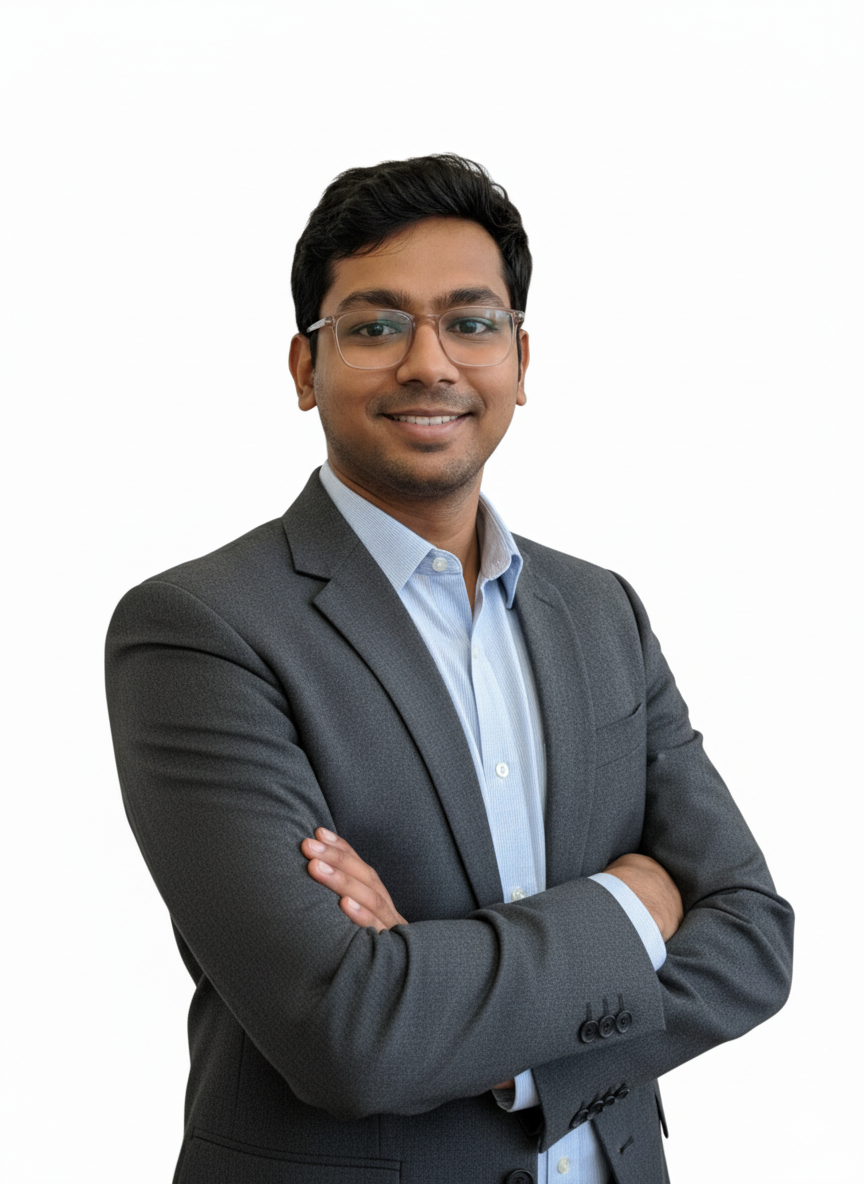
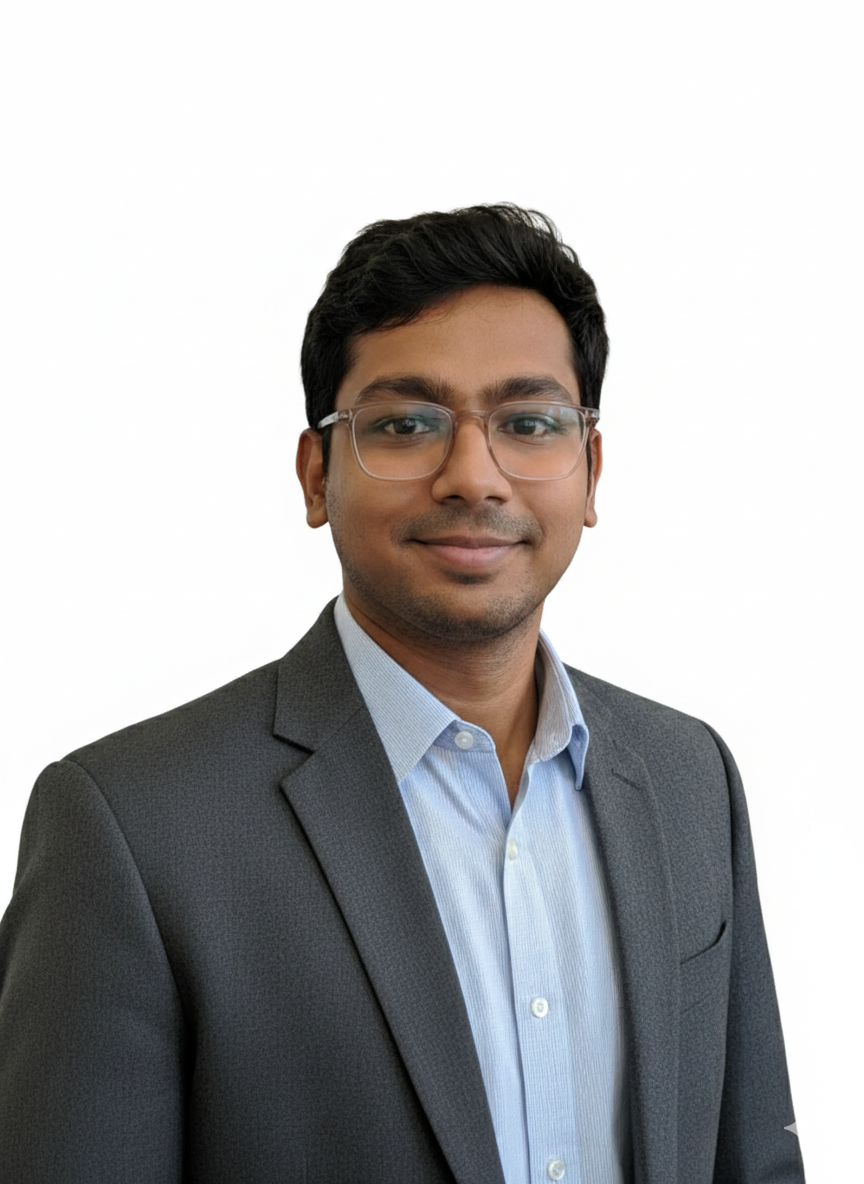
Complete Our Teaching Team section with detailed instructor profiles
- Add comprehensive team section with Gleb Bogachev and Manthan Chittora
- Include detailed structured bios with What I Teach, Approach, and Achievements
- Add instructor photos with proper sizing and positioning
- Full bilingual support (English/Vietnamese) for all team content
- Updated JavaScript to handle HTML content in bio translations
- Both instructors share "Successfully trained 100+ students" achievement
- Professional credentials and teaching experience highlighted
- Consistent styling matching existing design system

🤖 Generated with [Claude Code](https://claude.ai/code)

diff --git a/index.html b/index.html
@@ -399,16 +399,73 @@
         <p data-i18n="team.copy" class="mt-3 text-base text-slate-600">Meet our experienced instructors who guide students through their tech learning journey.</p>
         <div class="mt-10 grid gap-8 md:grid-cols-2">
           <div class="rounded-2xl border border-slate-200 bg-white/95 p-6 text-center">
-            <img src="images/gleb.jpg" alt="Gleb" class="mx-auto mb-4 h-32 w-32 rounded-full object-cover" />
-            <h3 data-i18n="team.glebName" class="text-lg font-semibold text-ink">Gleb</h3>
+            <img src="images/gleb.jpg" alt="Gleb" class="mx-auto mb-4 w-full h-96 rounded-lg object-cover object-center" />
+            <h3 data-i18n="team.glebName" class="text-lg font-semibold text-ink">Gleb Bogachev</h3>
             <p data-i18n="team.glebTitle" class="mt-1 text-sm font-medium text-sky">Lead Instructor</p>
-            <p data-i18n="team.glebBio" class="mt-3 text-sm text-slate-600">3+ years teaching experience in generative AI, game development, Scratch programming, and 3D design. Passionate about making complex tech concepts accessible to young learners.</p>
+            <div data-i18n="team.glebBio" class="mt-3 text-sm text-slate-600 text-left space-y-4">
+              <p>With 3.5+ years of teaching experience, I specialize in project-based learning that helps students learn by building real things — not just by following theory.</p>
+              
+              <div>
+                <h4 class="font-semibold text-ink mb-2">What I Teach</h4>
+                <ul class="list-disc list-inside space-y-1 ml-4">
+                  <li>Generative AI</li>
+                  <li>Game Development</li>
+                  <li>3D Design with Blender</li>
+                  <li>Scratch Programming</li>
+                  <li>Python Programming</li>
+                </ul>
+              </div>
+              
+              <div>
+                <h4 class="font-semibold text-ink mb-2">My Approach</h4>
+                <p>I believe the best way to learn is by starting with a project in mind and discovering new skills along the way. My classes focus on creativity, curiosity, and hands-on exploration.</p>
+              </div>
+              
+              <div>
+                <h4 class="font-semibold text-ink mb-2">Projects & Achievements</h4>
+                <ul class="list-disc list-inside space-y-1 ml-4">
+                  <li>Created three apps and several interactive projects</li>
+                  <li>Developed a publicly available web app as part of my personal portfolio</li>
+                  <li>Successfully trained 100+ students in coding and technology</li>
+                </ul>
+              </div>
+            </div>
           </div>
           <div class="rounded-2xl border border-slate-200 bg-white/95 p-6 text-center">
-            <img src="images/Manthan.jpg" alt="Manthan" class="mx-auto mb-4 h-32 w-32 rounded-full object-cover" />
-            <h3 data-i18n="team.manthanName" class="text-lg font-semibold text-ink">Manthan</h3>
-            <p data-i18n="team.manthanTitle" class="mt-1 text-sm font-medium text-sky">Senior Instructor</p>
-            <p data-i18n="team.manthanBio" class="mt-3 text-sm text-slate-600">3+ years teaching experience in generative AI, game development, Scratch programming, and 3D design. Passionate about making complex tech concepts accessible to young learners.</p>
+            <img src="images/Manthan.jpg" alt="Manthan" class="mx-auto mb-4 w-full h-96 rounded-lg object-cover object-center" />
+            <h3 data-i18n="team.manthanName" class="text-lg font-semibold text-ink">Manthan Chittora</h3>
+            <p data-i18n="team.manthanTitle" class="mt-1 text-sm font-medium text-sky">Lead Instructor</p>
+            <div data-i18n="team.manthanBio" class="mt-3 text-sm text-slate-600 text-left space-y-4">
+              <p>With 4+ years of teaching experience, I specialize in project-based learning that turns complex tech concepts into fun, hands-on lessons.</p>
+              
+              <div>
+                <h4 class="font-semibold text-ink mb-2">What I Teach</h4>
+                <ul class="list-disc list-inside space-y-1 ml-4">
+                  <li>Generative AI</li>
+                  <li>Python & Machine Learning</li>
+                  <li>Game Development (GDevelop 5, Roblox)</li>
+                  <li>Scratch Programming</li>
+                  <li>3D Design with Blender</li>
+                  <li>App Development</li>
+                </ul>
+              </div>
+              
+              <div>
+                <h4 class="font-semibold text-ink mb-2">My Approach</h4>
+                <p>I believe learning should feel like creating something exciting, not memorizing rules. My goal is to help students think creatively, solve problems, and develop confidence through coding.</p>
+              </div>
+              
+              <div>
+                <h4 class="font-semibold text-ink mb-2">Projects & Achievements</h4>
+                <ul class="list-disc list-inside space-y-1 ml-4">
+                  <li>Built multiple apps and AI/game projects</li>
+                  <li>Developed public Generative AI projects</li>
+                  <li>Successfully trained 100+ students in coding and technology</li>
+                  <li>Former Teacher at Apollo Education, Vietnam</li>
+                  <li>B.E. in Computer Science & Engineering, TEFL Certified</li>
+                </ul>
+              </div>
+            </div>
           </div>
         </div>
       </section>
@@ -527,12 +584,12 @@
             'outcomes.item3': 'Portfolios grow and students share their work with confidence',
             'team.heading': 'Our Teaching Team',
             'team.copy': 'Meet our experienced instructors who guide students through their tech learning journey.',
-            'team.glebName': 'Gleb',
+            'team.glebName': 'Gleb Bogachev',
             'team.glebTitle': 'Lead Instructor',
-            'team.glebBio': '3+ years teaching experience in generative AI, game development, Scratch programming, and 3D design. Passionate about making complex tech concepts accessible to young learners.',
-            'team.manthanName': 'Manthan',
-            'team.manthanTitle': 'Senior Instructor',
-            'team.manthanBio': '3+ years teaching experience in generative AI, game development, Scratch programming, and 3D design. Passionate about making complex tech concepts accessible to young learners.',
+            'team.glebBio': '<p>With 3.5+ years of teaching experience, I specialize in project-based learning that helps students learn by building real things — not just by following theory.</p><div><h4 class="font-semibold text-ink mb-2">What I Teach</h4><ul class="list-disc list-inside space-y-1 ml-4"><li>Generative AI</li><li>Game Development</li><li>3D Design with Blender</li><li>Scratch Programming</li><li>Python Programming</li></ul></div><div><h4 class="font-semibold text-ink mb-2">My Approach</h4><p>I believe the best way to learn is by starting with a project in mind and discovering new skills along the way. My classes focus on creativity, curiosity, and hands-on exploration.</p></div><div><h4 class="font-semibold text-ink mb-2">Projects & Achievements</h4><ul class="list-disc list-inside space-y-1 ml-4"><li>Created three apps and several interactive projects</li><li>Developed a publicly available web app as part of my personal portfolio</li><li>Successfully trained 100+ students in coding and technology</li></ul></div>',
+            'team.manthanName': 'Manthan Chittora',
+            'team.manthanTitle': 'Lead Instructor',
+            'team.manthanBio': '<p>With 4+ years of teaching experience, I specialize in project-based learning that turns complex tech concepts into fun, hands-on lessons.</p><div><h4 class="font-semibold text-ink mb-2">What I Teach</h4><ul class="list-disc list-inside space-y-1 ml-4"><li>Generative AI</li><li>Python & Machine Learning</li><li>Game Development (GDevelop 5, Roblox)</li><li>Scratch Programming</li><li>3D Design with Blender</li><li>App Development</li></ul></div><div><h4 class="font-semibold text-ink mb-2">My Approach</h4><p>I believe learning should feel like creating something exciting, not memorizing rules. My goal is to help students think creatively, solve problems, and develop confidence through coding.</p></div><div><h4 class="font-semibold text-ink mb-2">Projects & Achievements</h4><ul class="list-disc list-inside space-y-1 ml-4"><li>Built multiple apps and AI/game projects</li><li>Developed public Generative AI projects</li><li>Successfully trained 100+ students in coding and technology</li><li>Former Teacher at Apollo Education, Vietnam</li><li>B.E. in Computer Science & Engineering, TEFL Certified</li></ul></div>',
             'contact.heading': 'Talk with our team',
             'contact.copy': 'Zalo / WhatsApp: 0931140736',
             'contact.whatsapp': 'Chat on WhatsApp',
@@ -634,12 +691,12 @@
             'outcomes.item3': 'Phát triển portfolio và tự tin chia sẻ thành quả',
             'team.heading': 'Đội Ngũ Giảng Viên',
             'team.copy': 'Gặp gỡ các giảng viên giàu kinh nghiệm dẫn dắt học viên trong hành trình học công nghệ.',
-            'team.glebName': 'Gleb',
+            'team.glebName': 'Gleb Bogachev',
             'team.glebTitle': 'Giảng Viên Chính',
-            'team.glebBio': 'Hơn 3 năm kinh nghiệm giảng dạy AI tạo sinh, phát triển game, lập trình Scratch và thiết kế 3D. Đam mê làm cho các khái niệm công nghệ phức tạp trở nên dễ tiếp cận với học viên trẻ.',
-            'team.manthanName': 'Manthan',
-            'team.manthanTitle': 'Giảng Viên Cao Cấp',
-            'team.manthanBio': 'Hơn 3 năm kinh nghiệm giảng dạy AI tạo sinh, phát triển game, lập trình Scratch và thiết kế 3D. Đam mê làm cho các khái niệm công nghệ phức tạp trở nên dễ tiếp cận với học viên trẻ.',
+            'team.glebBio': '<p>Với hơn 3.5 năm kinh nghiệm giảng dạy, tôi chuyên về học tập dựa trên dự án giúp học sinh học bằng cách xây dựng những thứ thực tế — không chỉ theo lý thuyết.</p><div><h4 class="font-semibold text-ink mb-2">Tôi Giảng Dạy</h4><ul class="list-disc list-inside space-y-1 ml-4"><li>AI Tạo Sinh</li><li>Phát Triển Game</li><li>Thiết Kế 3D với Blender</li><li>Lập Trình Scratch</li><li>Lập Trình Python</li></ul></div><div><h4 class="font-semibold text-ink mb-2">Phương Pháp Của Tôi</h4><p>Tôi tin rằng cách học tốt nhất là bắt đầu với một dự án trong đầu và khám phá các kỹ năng mới trên đường đi. Lớp học của tôi tập trung vào sáng tạo, tò mò và khám phá thực hành.</p></div><div><h4 class="font-semibold text-ink mb-2">Dự Án & Thành Tựu</h4><ul class="list-disc list-inside space-y-1 ml-4"><li>Đã tạo ra ba ứng dụng và nhiều dự án tương tác</li><li>Phát triển một ứng dụng web công khai như một phần của portfolio cá nhân</li><li>Đã đào tạo thành công hơn 100 học sinh về lập trình và công nghệ</li></ul></div>',
+            'team.manthanName': 'Manthan Chittora',
+            'team.manthanTitle': 'Giảng Viên Chính',
+            'team.manthanBio': '<p>Với hơn 4 năm kinh nghiệm giảng dạy, tôi chuyên về học tập dựa trên dự án biến các khái niệm công nghệ phức tạp thành những bài học thú vị, thực hành.</p><div><h4 class="font-semibold text-ink mb-2">Tôi Giảng Dạy</h4><ul class="list-disc list-inside space-y-1 ml-4"><li>AI Tạo Sinh</li><li>Python & Machine Learning</li><li>Phát Triển Game (GDevelop 5, Roblox)</li><li>Lập Trình Scratch</li><li>Thiết Kế 3D với Blender</li><li>Phát Triển Ứng Dụng</li></ul></div><div><h4 class="font-semibold text-ink mb-2">Phương Pháp Của Tôi</h4><p>Tôi tin rằng học tập nên cảm thấy như đang tạo ra điều gì đó thú vị, chứ không phải ghi nhớ quy tắc. Mục tiêu của tôi là giúp học sinh suy nghĩ sáng tạo, giải quyết vấn đề và phát triển sự tự tin thông qua lập trình.</p></div><div><h4 class="font-semibold text-ink mb-2">Dự Án & Thành Tựu</h4><ul class="list-disc list-inside space-y-1 ml-4"><li>Xây dựng nhiều ứng dụng và dự án AI/game</li><li>Phát triển các dự án AI Tạo sinh công khai</li><li>Đã đào tạo thành công hơn 100 học sinh về lập trình và công nghệ</li><li>Cựu Giảng viên tại Apollo Education, Việt Nam</li><li>Cử nhân Khoa học & Kỹ thuật Máy tính, Chứng chỉ TEFL</li></ul></div>',
             'contact.heading': 'Liên hệ đội ngũ',
             'contact.copy': 'Zalo / WhatsApp: 0931140736',
             'contact.whatsapp': 'Chat WhatsApp',
@@ -654,7 +711,11 @@
             var key = node.dataset.i18n;
             var value = translations[lang] && translations[lang][key];
             if (typeof value === 'string') {
-              node.textContent = value;
+              if (key === 'team.glebBio' || key === 'team.manthanBio') {
+                node.innerHTML = value;
+              } else {
+                node.textContent = value;
+              }
             }
           });
           toggles.forEach(function (btn) {
